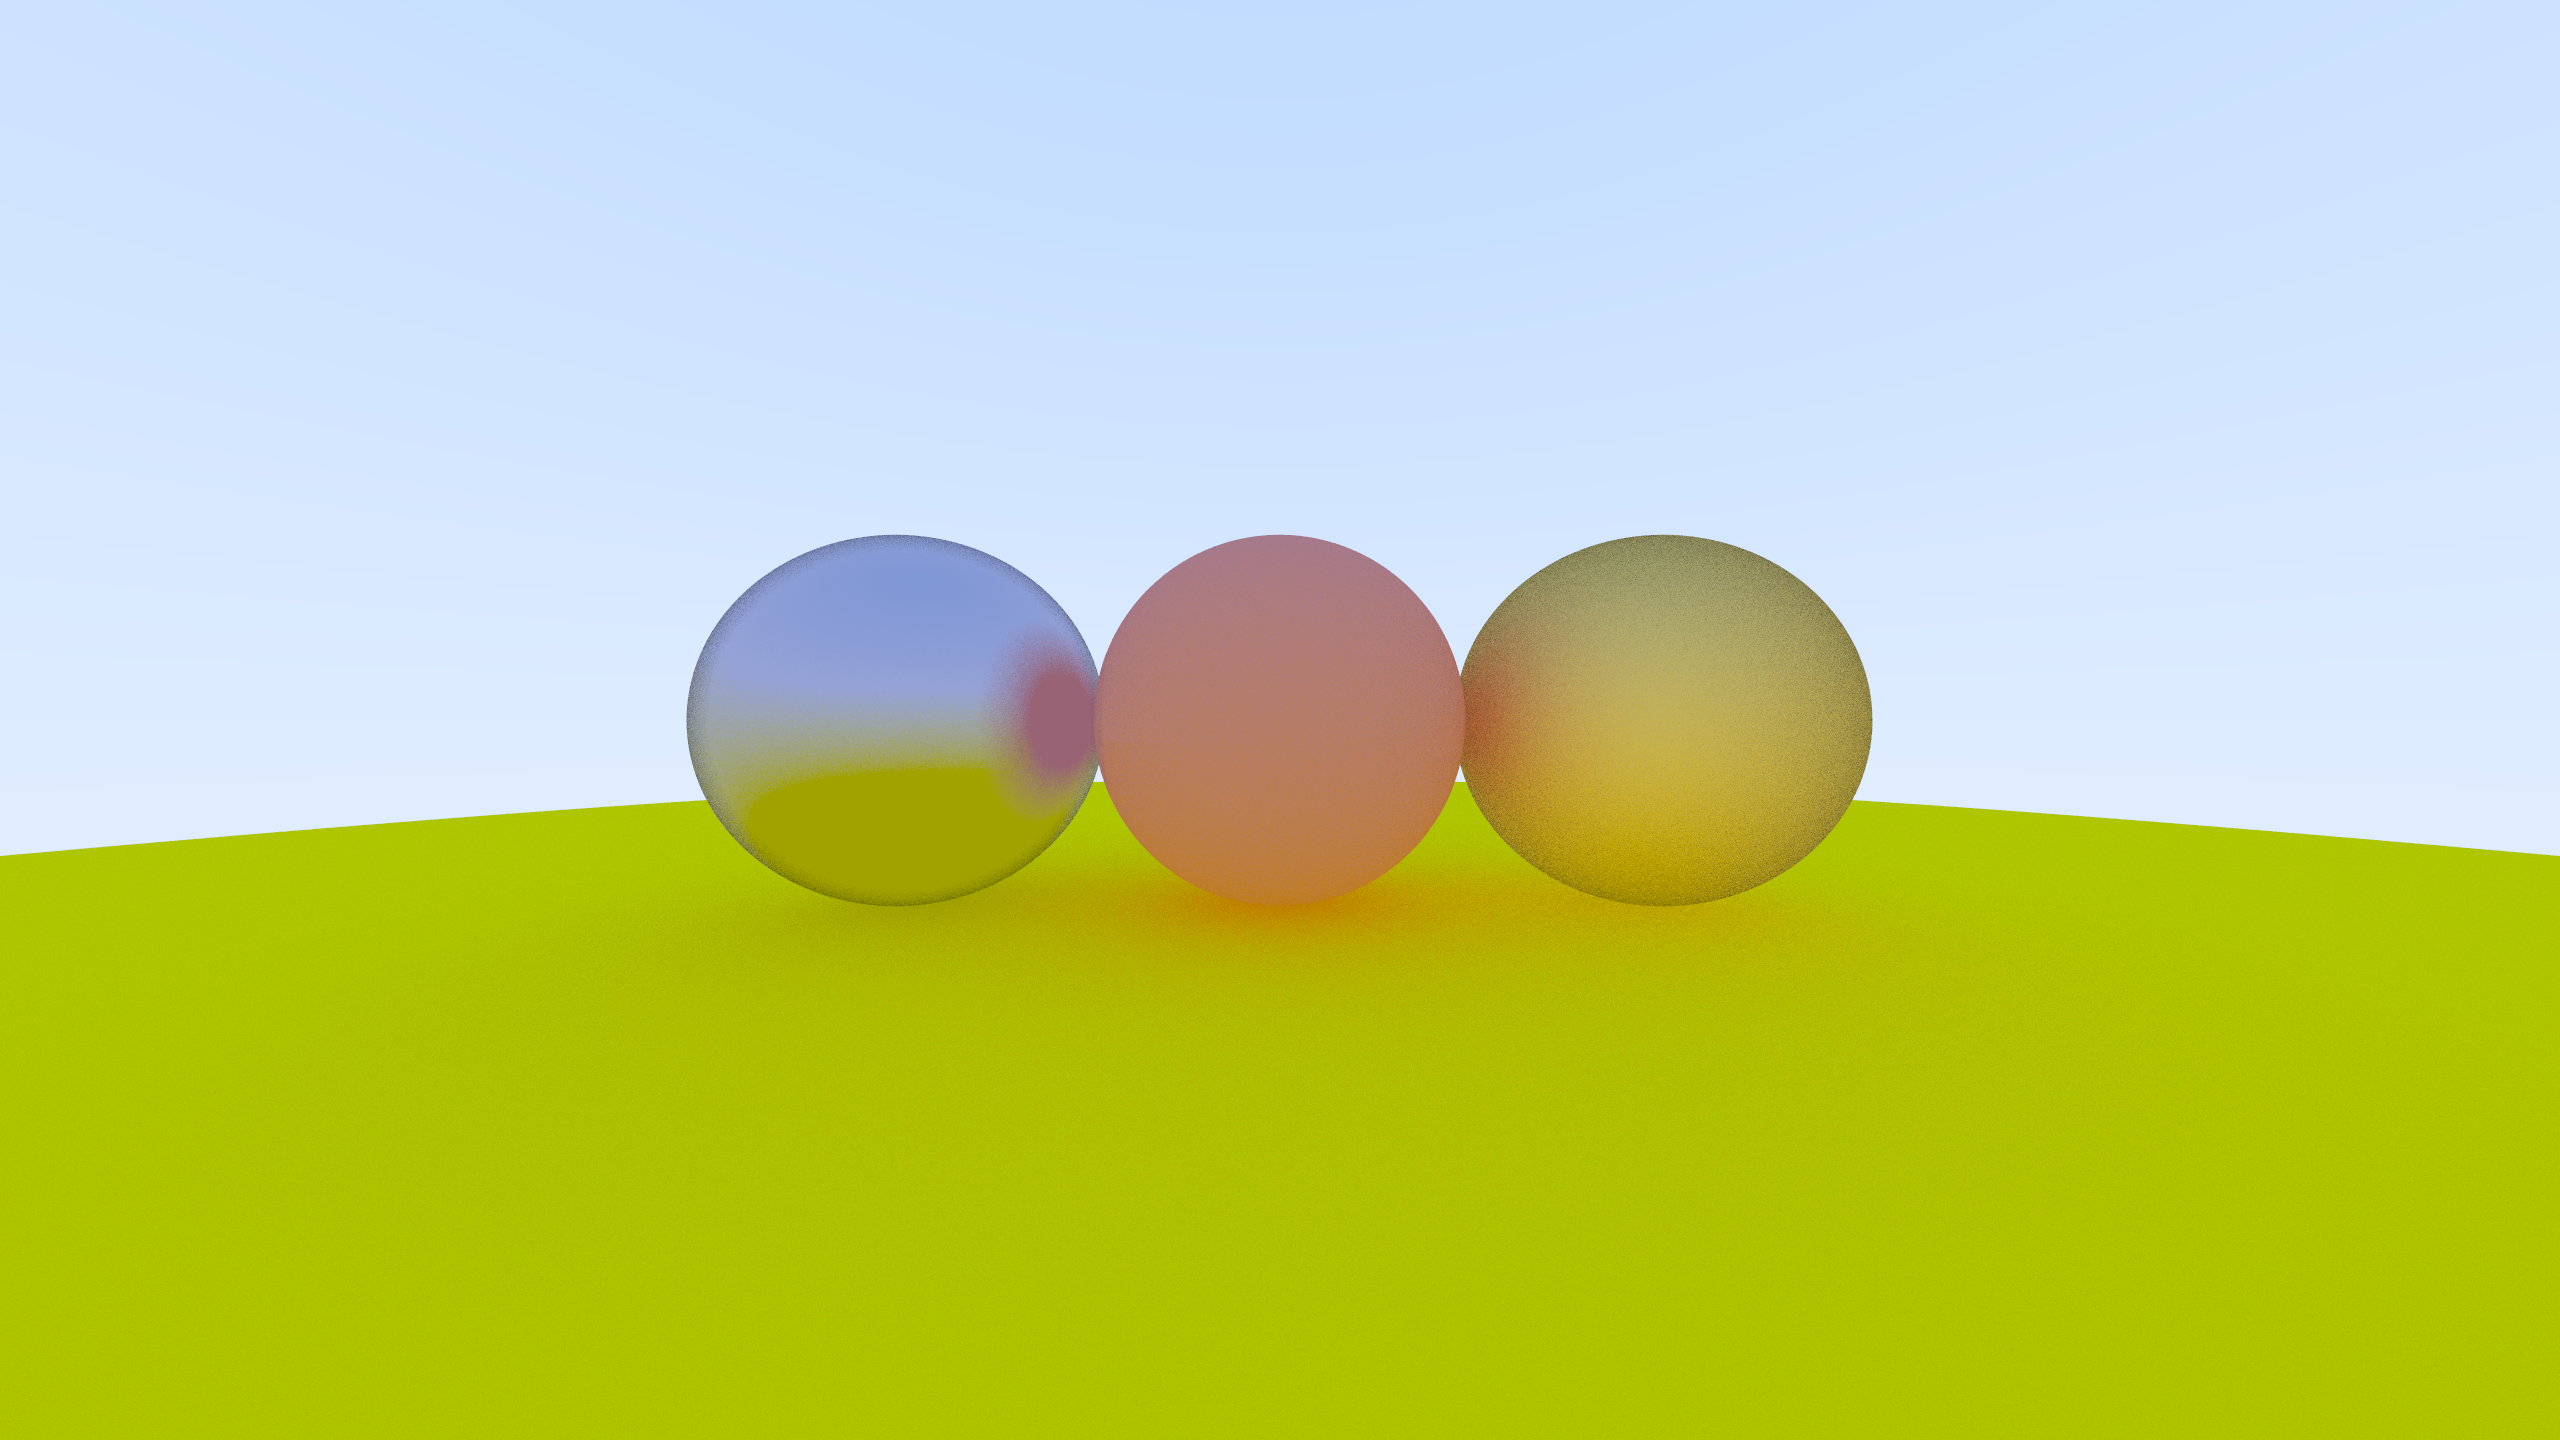
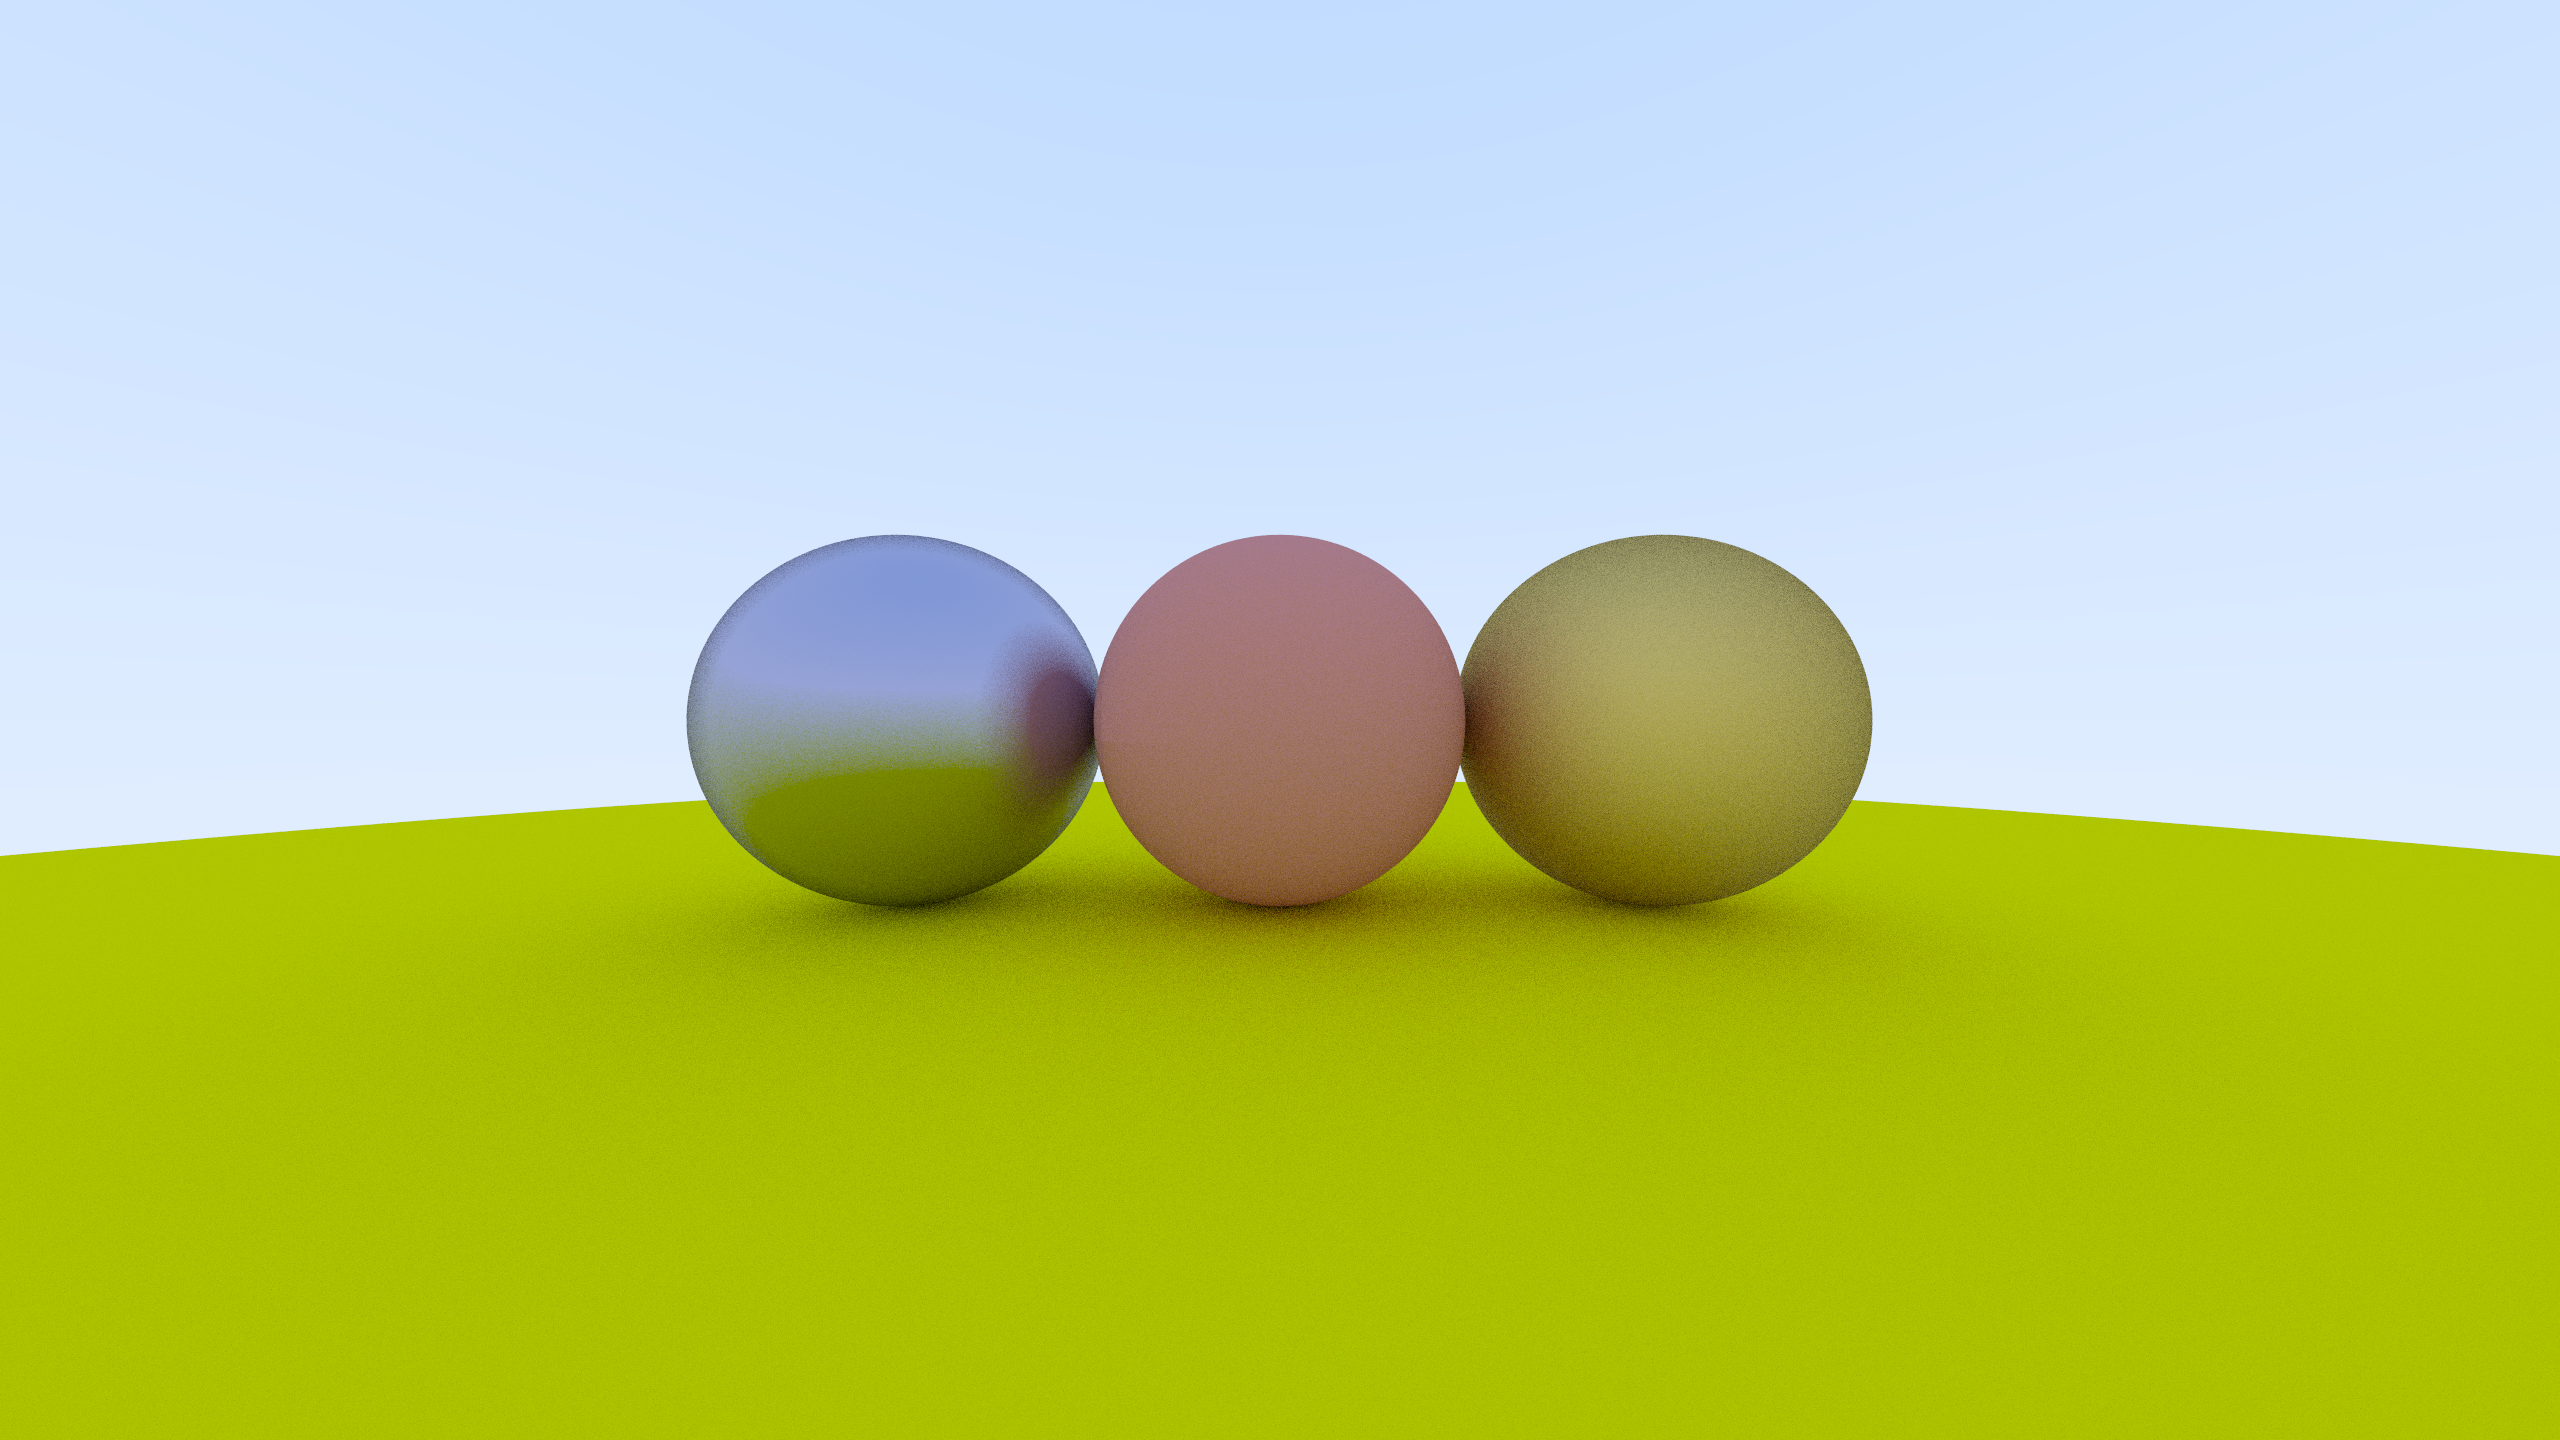
added more depth to ray bounce

Changed region(s): [[0.25, 0.4375, 0.75, 0.6875]]

diff --git a/src/main.rs b/src/main.rs
@@ -13,7 +13,7 @@ use rand::prelude::*;
 use crate::shapes::material;
 
 const SAMPLES_PER_PIXEL: i32 = 30;
-const MAX_DEPTH: i32 = 2;
+const MAX_DEPTH: i32 = 50;
 
 fn main() {
 
